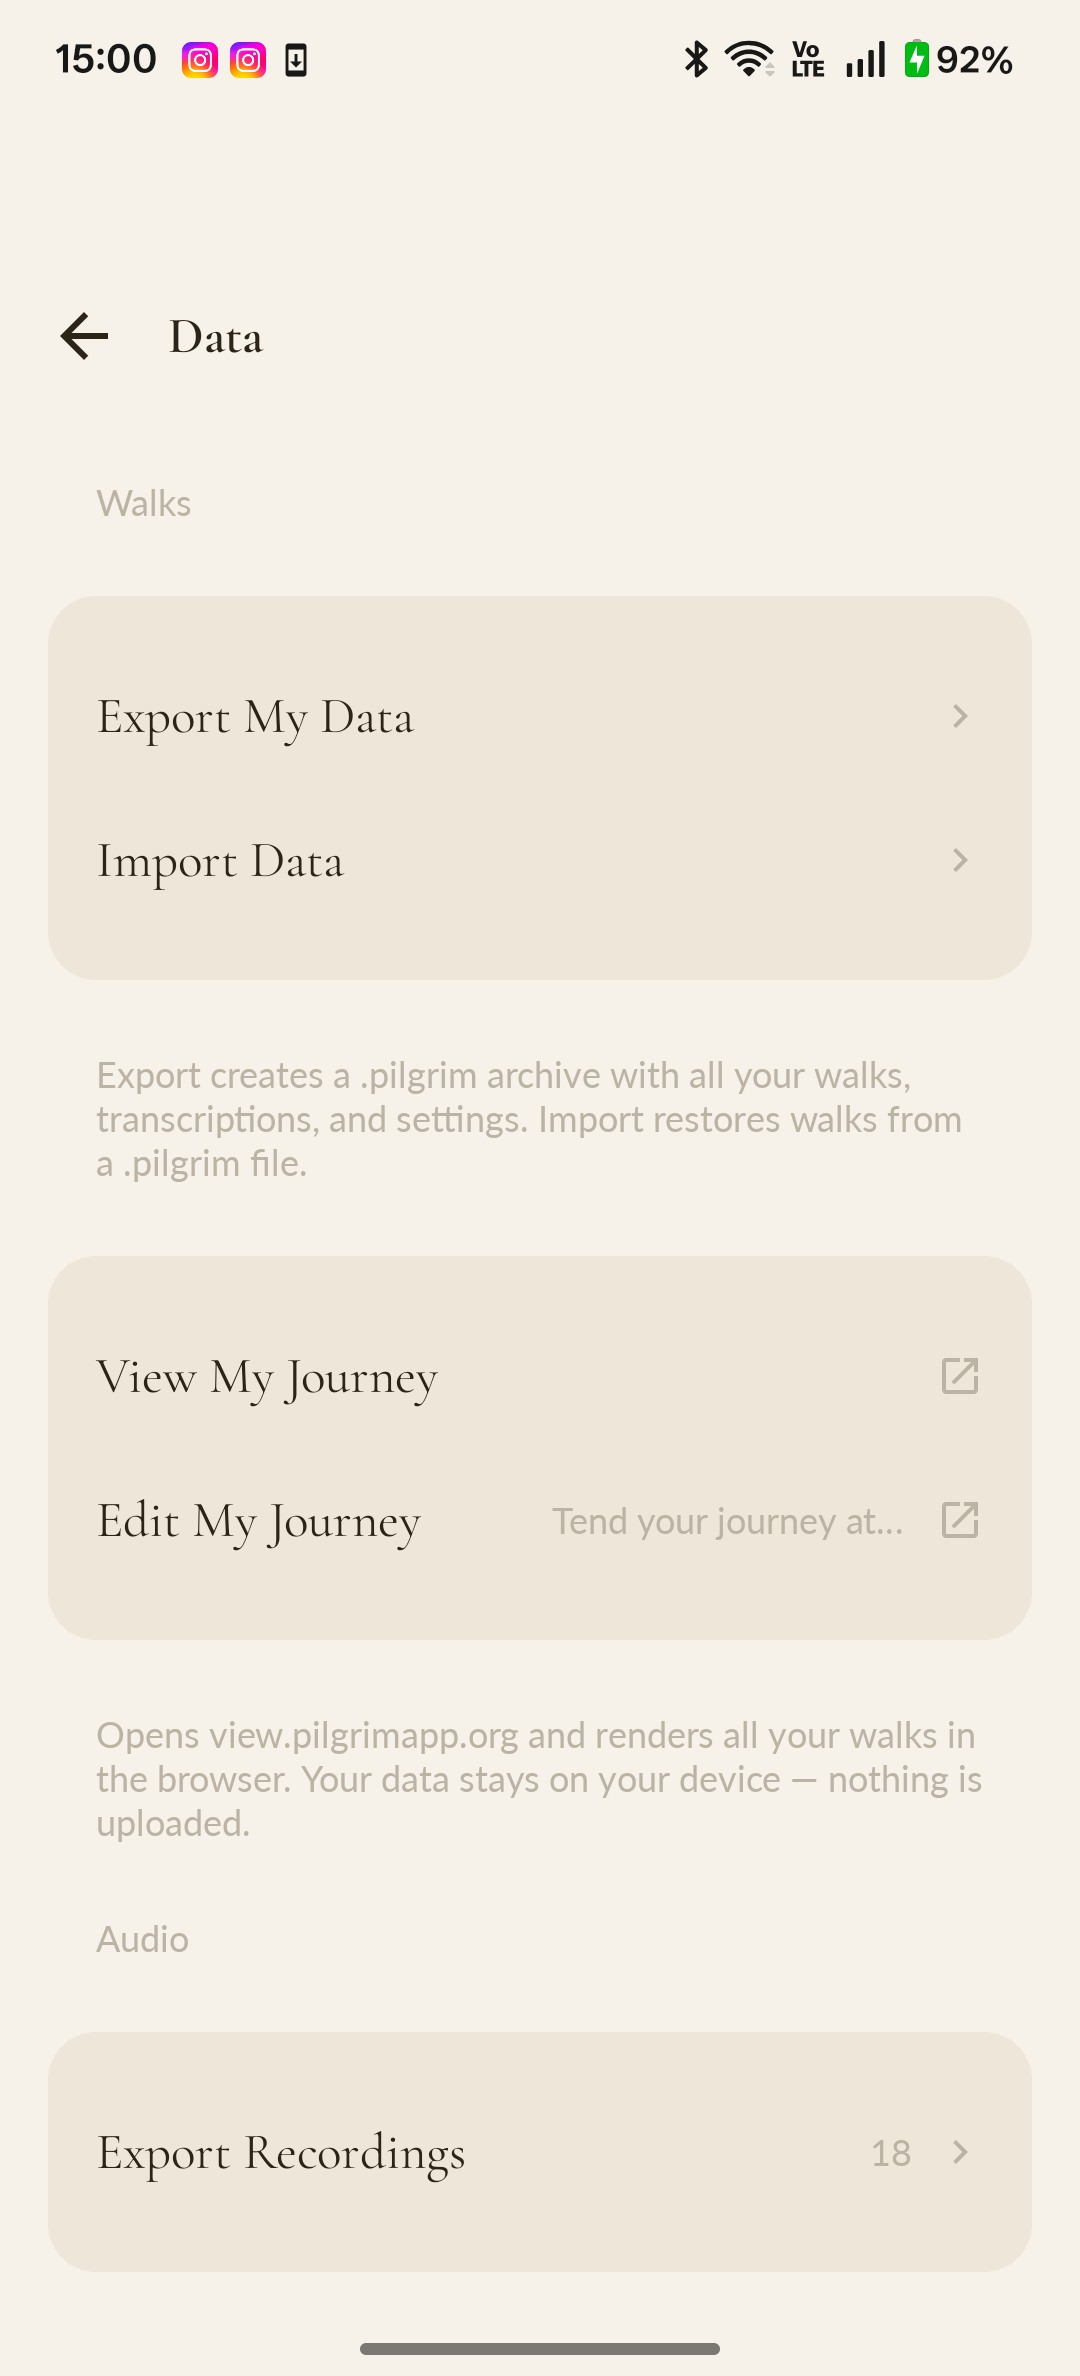
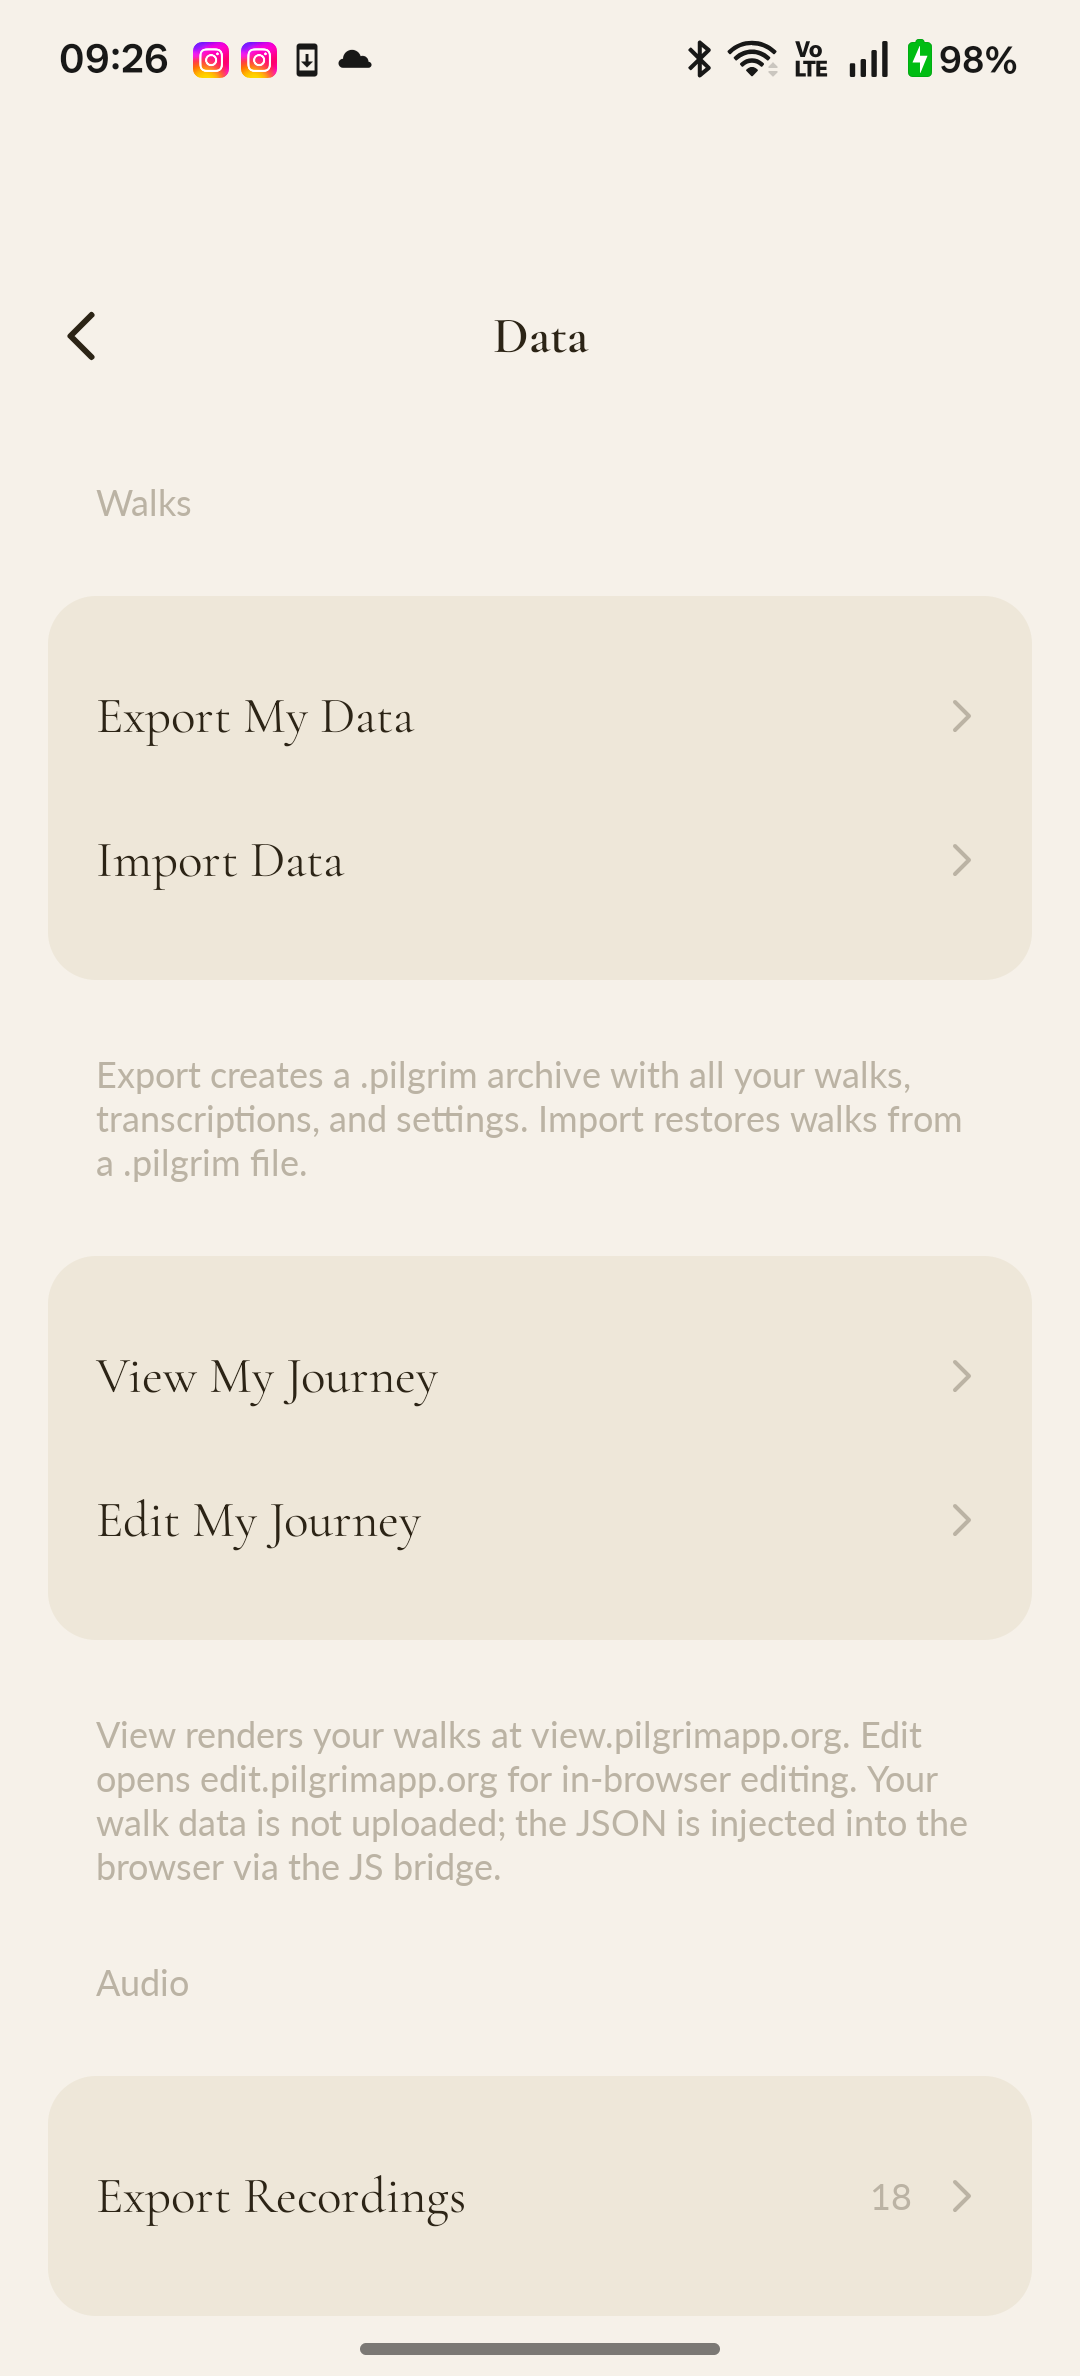
fix(settings): data-detail Journey rows match iOS
Blinded review (settings.data-detail): View/Edit My Journey → chevron
not external arrow (iOS pushes an in-app WebView); removed Edit's
"Tend your journey at…" subtitle (iOS has none; dead string deleted);
Journey footer copy → iOS wording verbatim. Compiles; DataSettings
tests green; on-device verified. Export/Import action-vs-nav chevron
affordance deferred (needs a no-chevron SettingNavRow variant).

diff --git a/app/src/main/java/org/walktalkmeditate/pilgrim/ui/settings/data/DataSettingsScreen.kt b/app/src/main/java/org/walktalkmeditate/pilgrim/ui/settings/data/DataSettingsScreen.kt
@@ -236,7 +236,9 @@ fun DataSettingsScreen(
                     SettingNavRow(
                         label = stringResource(R.string.data_action_journey),
                         modifier = Modifier.fillMaxWidth(),
-                        external = true,
+                        // iOS pushes an in-app WebView → chevron, not an
+                        // external-link arrow.
+                        external = false,
                         onClick = { onAction(SettingsAction.OpenJourneyViewer) },
                     )
                     // iOS v1.6.0 — sibling Edit My Journey row pointing
@@ -247,9 +249,8 @@ fun DataSettingsScreen(
                     // back through the importer's tended-mode path.
                     SettingNavRow(
                         label = stringResource(R.string.settings_data_edit_journey_row),
-                        detail = stringResource(R.string.settings_data_edit_journey_subtitle),
                         modifier = Modifier.fillMaxWidth(),
-                        external = true,
+                        external = false,
                         onClick = { onAction(SettingsAction.OpenJourneyEditor) },
                     )
                 }

diff --git a/docs/parity/2026-05-15-parity-ledger.md b/docs/parity/2026-05-15-parity-ledger.md
@@ -120,7 +120,7 @@ Row id = `<area>.<screen>.<state>`. `iOS ref` is repo-relative under `../pilgrim
 | settings.voiceguide | Scenes/Settings/VoiceGuideSettingsView.swift | Voice guide settings (download/delete) | ui/settings/voiceguide | L/D/C | — | none | unverified |
 | settings.voiceguide.picker | Scenes/Settings/VoiceGuideSettingsView.swift | Voice guide pack picker + progress | ui/settings/voiceguide picker | L/D/C | — | none | unverified |
 | settings.recordings | Scenes/Settings/RecordingsListView.swift | Recordings list (swipe actions) | ui/recordings/RecordingsListScreen.kt | L/D/C | — | walks w/ recordings | unverified |
-| settings.data-detail | Scenes/Settings/DataSettingsView.swift | Data settings (export/import/journey rows) | ui/settings/data DataSettingsScreen | L/D/C | — | none | unverified |
+| settings.data-detail | Scenes/Settings/DataSettingsView.swift | Data settings (export/import/journey rows) | ui/settings/data DataSettingsScreen | L/D/C | — | none | L:close-the-gap (3 fixed; export/import affordance deferred); D/C:unverified |
 | settings.export-confirm | Scenes/Settings/ExportConfirmationSheet.swift | Export confirmation sheet | ui/settings/data ExportConfirmationSheet | L/D/C | — | ≥1 walk | unverified |
 | settings.journey-viewer | Scenes/Settings/JourneyViewerView.swift | Journey viewer webview | ui/settings/data JourneyViewerScreen | L/D/C | — | ≥1 walk | unverified |
 | settings.journey-editor | Scenes/Settings/JourneyEditorView.swift | Edit My Journey webview | ui/settings/data JourneyEditorScreen | L/D/C | — | ≥1 walk | unverified |
@@ -220,6 +220,14 @@ Progress (2026-05-15): shared vector drawables `ic_sf_chevron_left/right`, `ic_s
   2. **iOS `storageSection`** (downloaded bell/soundscape storage-management section) absent on Android — **deferred**: larger feature surface (download/disk mgmt UI); dated `re-justify` candidate or its own close-the-gap unit. U7/A5 disposition.
   3. ~~Android master "Sounds" toggle had a subtitle iOS lacks~~ — **FIXED**: `description = ""` (iOS `mainToggleSection` toggle has no subtitle); the `settings_sounds_description` string stays (still used by `AtmosphereCard`'s Sounds nav row, which iOS *does* subtitle). On-device verified. SoundSettings tests green.
   - Section set/order (Walk → Meditation Start/End/Soundscape/Breath, Volume) otherwise corresponds; selected bell/soundscape values differ by device state (not a divergence). D/C pending.
+
+### settings.data-detail
+- **L — `close-the-gap`** (fresh blinded reviewer, 2026-05-16; iOS shot top-of-screen only — Audio/recordings section out of scope, both platforms have it). evidence: `evidence/settings.data-detail__L__{ios,android}.png`. 4 sub-divergences:
+  1. **Export My Data / Import Data affordance** — iOS = bare action Buttons (no trailing glyph); Android = `SettingNavRow` w/ chevron. **Deferred**: needs a no-chevron action-row variant of `SettingNavRow` (component change). U7/A5.
+  2. ~~View/Edit My Journey trailing glyph (iOS chevron-push vs Android ↗ external)~~ — **FIXED**: `external = false` on both Journey rows (iOS pushes an in-app WebView → chevron). On-device verified.
+  3. ~~"Edit My Journey" extra subtitle~~ — **FIXED**: removed `detail=`; dead `settings_data_edit_journey_subtitle` string deleted. Verified.
+  4. ~~Journey footer copy drift~~ — **FIXED**: `data_journey_footer` → iOS wording verbatim ("View renders your walks at view.pilgrimapp.org. Edit opens edit.pilgrimapp.org for in-browser editing. Your walk data is not uploaded; the JSON is injected into the browser via the JS bridge."). Verified.
+  - Scaffold chrome (centered "Data" + SF back) already correct. Compiles; DataSettings tests green. D/C pending.
 
 ## Gate summary (computed at U7)
 
